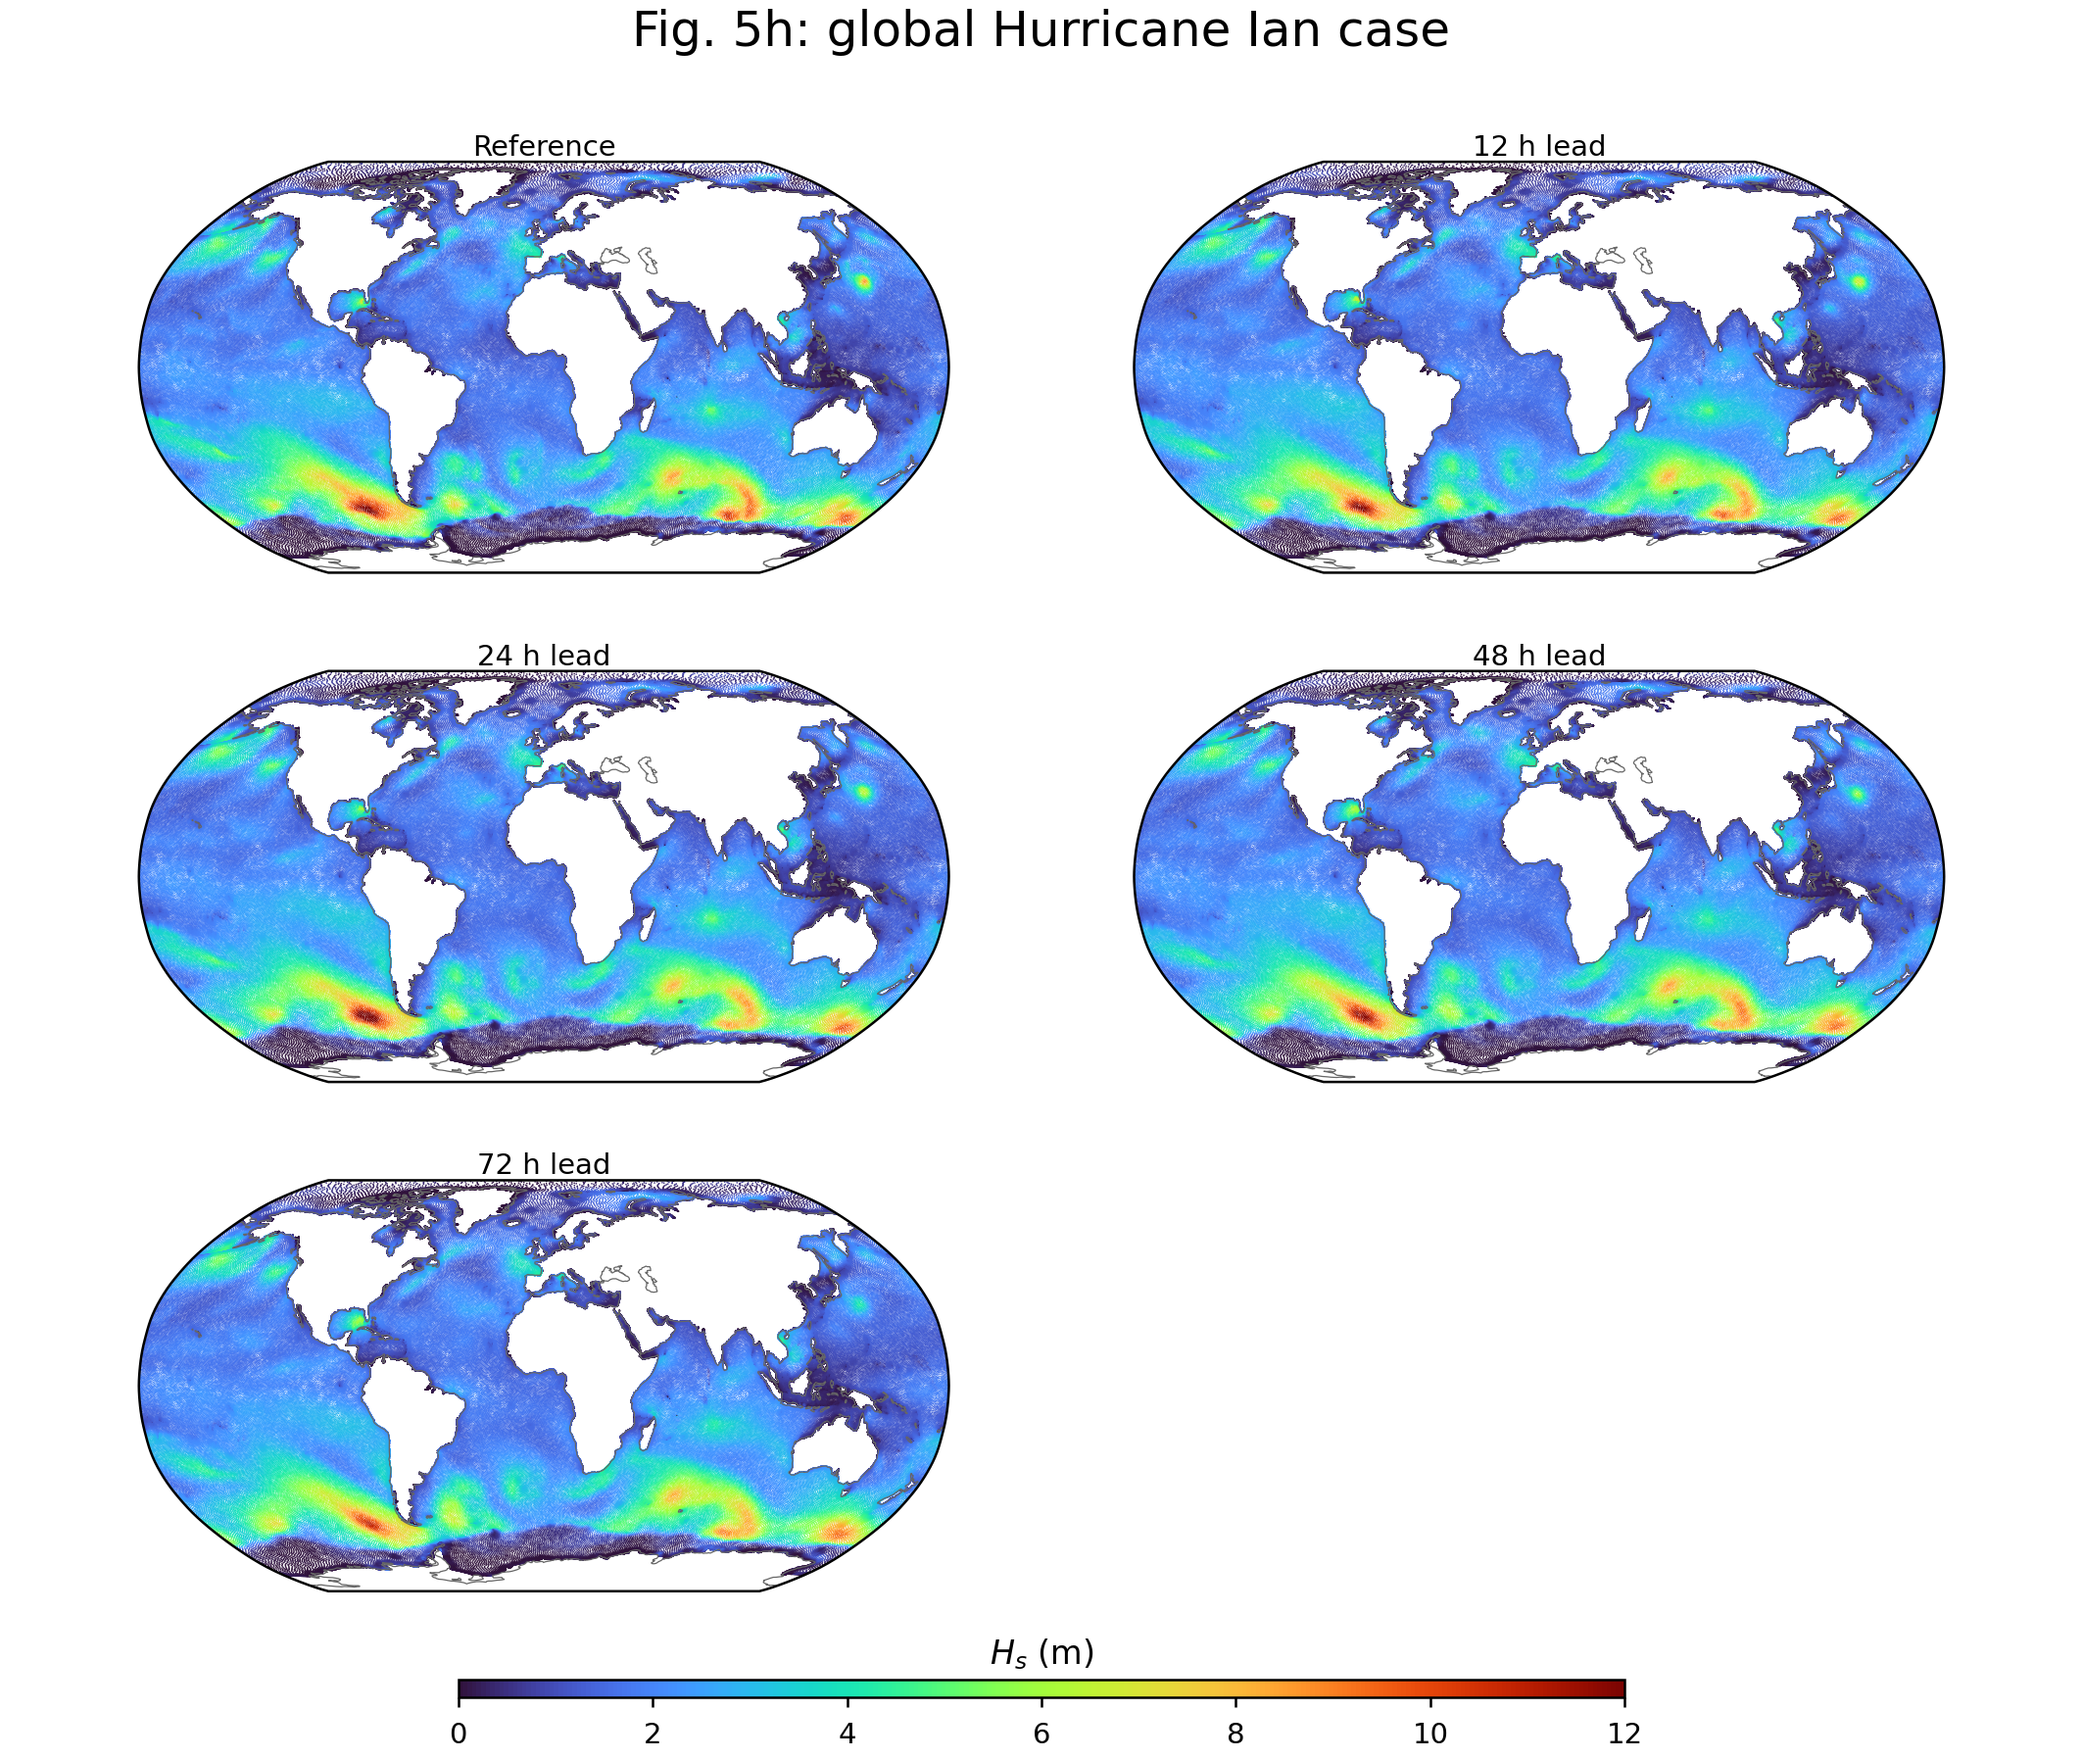
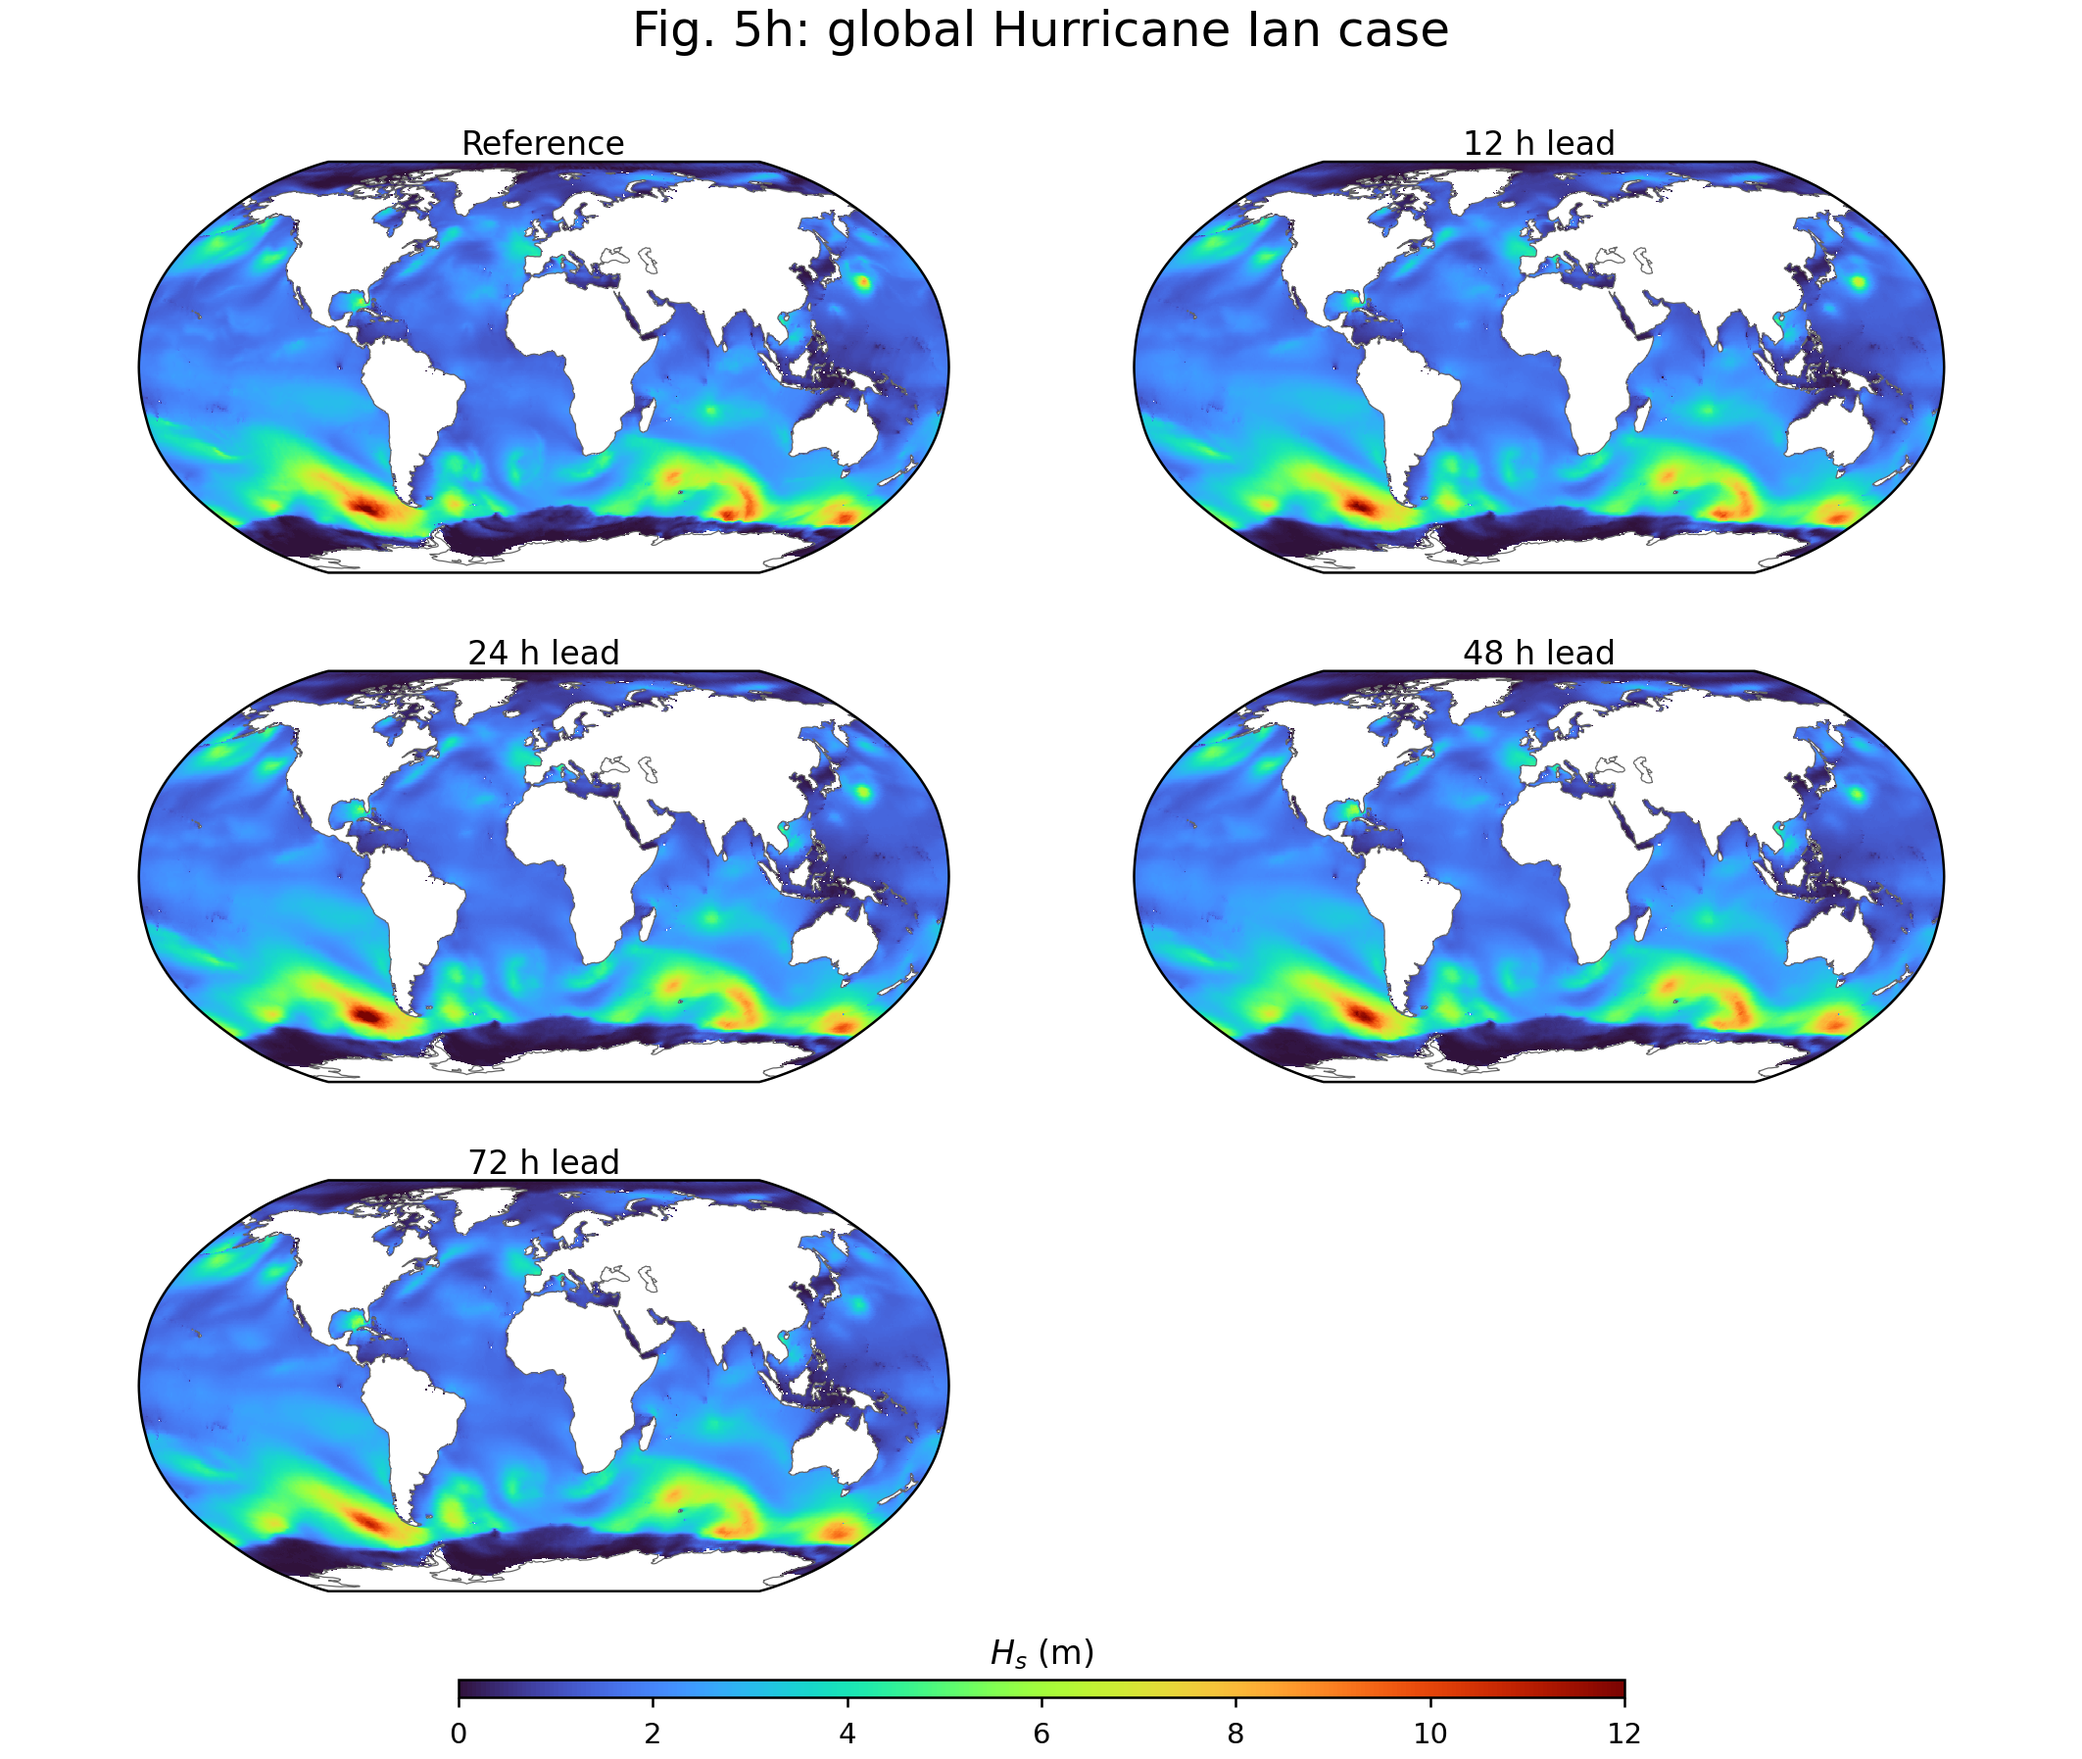
docs: interpolated Fig5h fields instead of scatter

diff --git a/reproduce/notebook_standalone.py b/reproduce/notebook_standalone.py
@@ -318,6 +318,30 @@ def fig5g():
     return fig
 
 
+def _global_field(lons, lats, vals, res=0.5):
+    """Interpolate unstructured global nodes to a regular lon/lat grid."""
+    from scipy.interpolate import griddata
+    from shapely import contains_xy
+    from modules.plot.global_ocean_boundary import get_global_ocean_geometry
+
+    lon360 = lons % 360.0
+    pts = np.column_stack([lon360, lats])
+    ext_pts = np.vstack([pts,
+                         np.column_stack([np.where(lon360 < 30, lon360 + 360, lon360), lats]),
+                         np.column_stack([np.where(lon360 > 330, lon360 - 360, lon360), lats])])
+    ext_vals = np.concatenate([vals, vals, vals])
+    glon = np.arange(0.0, 360.0 + res / 2, res)
+    glat = np.arange(-90.0, 90.0 + res / 2, res)
+    GX, GY = np.meshgrid(glon, glat)
+    zi = griddata(ext_pts, ext_vals, (GX, GY), method="linear")
+    ocean, _coast = get_global_ocean_geometry()
+    lon_shift = ((GX + 180.0) % 360.0) - 180.0
+    keep = contains_xy(ocean, lon_shift.ravel(), GY.ravel()).reshape(GX.shape)
+    zi[~keep] = np.nan
+    order = np.argsort(lon_shift[0])
+    return lon_shift[0][order], glat, zi[:, order]
+
+
 def fig5h():
     F, CASE, GLOB = _fig5_modules()
     gc = np.load(REPO / GLOB.COORDS)
@@ -337,19 +361,24 @@ def fig5h():
         vals = GLOB.ens_mean_hs(lead, ts, tmpls.get(lead))
         items.append(((i + 1) // 2, (i + 1) % 2, vals, f"{lead} h lead"))
 
-    sc = None
+    im = None
     for row, col, vals, title in items:
-        _ax, sc = GLOB.draw_robinson(
-            fig, xcols[col], yrows[row], map_w, map_h, lons, lats, vals,
-            title, "turbo", 0.0, GLOB.HS_VMAX, canvas=(W, H))
+        lon_p, lat_p, zi = _global_field(lons, lats, np.asarray(vals, dtype=float))
+        ax = fig.add_axes([xcols[col] / W, 1 - (yrows[row] + map_h) / H,
+                           map_w / W, map_h / H], projection=ccrs.Robinson())
+        ax.set_global()
+        ax.coastlines(linewidth=0.3, color="#666666")
+        im = ax.pcolormesh(lon_p, lat_p, zi, cmap="turbo", vmin=0.0,
+                           vmax=GLOB.HS_VMAX, transform=ccrs.PlateCarree(),
+                           shading="auto", rasterized=True)
+        ax.set_title(title, fontsize=8, pad=1.5)
 
     cax = fig.add_axes([0.22, 0.035, 0.56, 0.010])
-    cb = fig.colorbar(sc, cax=cax, orientation="horizontal")
+    cb = fig.colorbar(im, cax=cax, orientation="horizontal")
     cb.set_label("$H_s$ (m)", fontsize=8, labelpad=4)
     cb.ax.xaxis.set_label_position("top")
     cb.ax.tick_params(labelsize=7)
-    fig.suptitle("Fig. 5h: global Hurricane Ian case",
-                 fontsize=12, y=0.995)
+    fig.suptitle("Fig. 5h: global Hurricane Ian case", fontsize=12, y=0.995)
     return fig
 
 
